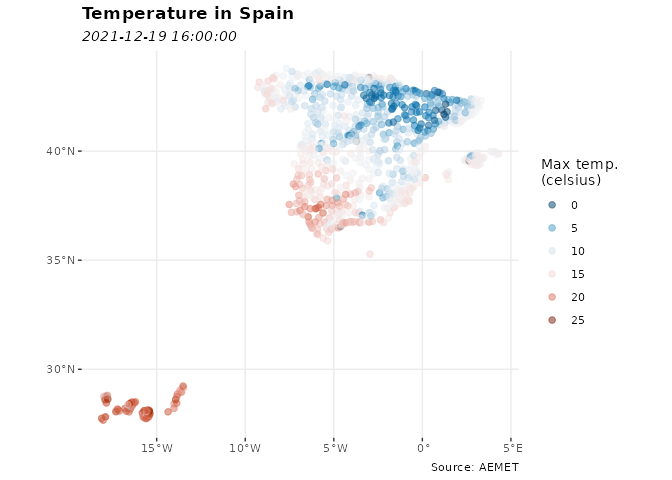
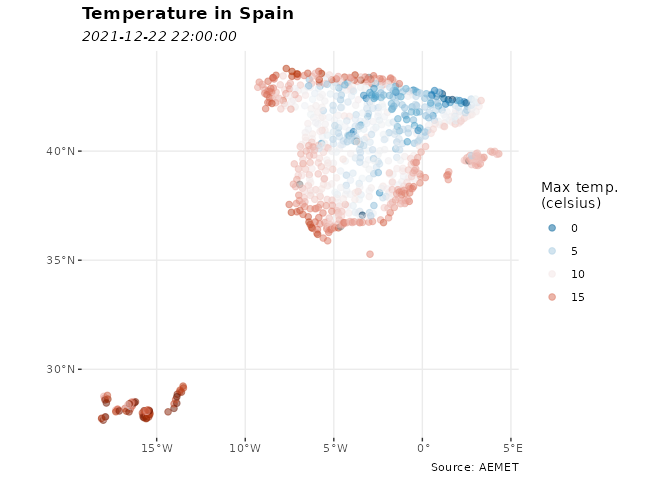
Update docs with pkgdev

diff --git a/README.md b/README.md
@@ -121,20 +121,20 @@ library(climaemet)
 # See a tibble in action
 
 aemet_last_obs("9434")
-#> # A tibble: 24 × 25
+#> # A tibble: 23 × 25
 #>    idema   lon fint                 prec   alt  vmax    vv    dv   lat  dmax
 #>    <chr> <dbl> <dttm>              <dbl> <dbl> <dbl> <dbl> <dbl> <dbl> <dbl>
-#>  1 9434  -1.00 2021-12-19 16:00:00     0   249   3.4   0.6    77  41.7   135
-#>  2 9434  -1.00 2021-12-19 17:00:00     0   249   2.7   0.6    78  41.7   110
-#>  3 9434  -1.00 2021-12-19 18:00:00     0   249   2.4   0.8    11  41.7    95
-#>  4 9434  -1.00 2021-12-19 19:00:00     0   249   1.8   0.1    96  41.7    53
-#>  5 9434  -1.00 2021-12-19 20:00:00     0   249   2.4   1      37  41.7    53
-#>  6 9434  -1.00 2021-12-19 21:00:00     0   249   2.5   1.2    40  41.7    38
-#>  7 9434  -1.00 2021-12-19 22:00:00     0   249   2.2   0.7   348  41.7    33
-#>  8 9434  -1.00 2021-12-19 23:00:00     0   249   2.1   1      78  41.7   118
-#>  9 9434  -1.00 2021-12-20 00:00:00     0   249   2.1   0.9   115  41.7   153
-#> 10 9434  -1.00 2021-12-20 01:00:00     0   249   1.7   1     209  41.7   340
-#> # … with 14 more rows, and 15 more variables: ubi <chr>, pres <dbl>, hr <dbl>,
+#>  1 9434  -1.00 2021-12-22 22:00:00     0   249   5     3.3   120  41.7   118
+#>  2 9434  -1.00 2021-12-22 23:00:00     0   249   5.3   3.1   111  41.7   108
+#>  3 9434  -1.00 2021-12-23 00:00:00     0   249   4.8   2.4   107  41.7   110
+#>  4 9434  -1.00 2021-12-23 01:00:00     0   249   4.1   2.5    99  41.7   125
+#>  5 9434  -1.00 2021-12-23 02:00:00     0   249   3.8   1.6    81  41.7   113
+#>  6 9434  -1.00 2021-12-23 03:00:00     0   249   3.1   1.3    82  41.7    85
+#>  7 9434  -1.00 2021-12-23 04:00:00     0   249   3.4   2      93  41.7   100
+#>  8 9434  -1.00 2021-12-23 05:00:00     0   249   4.5   1.7   123  41.7   110
+#>  9 9434  -1.00 2021-12-23 06:00:00     0   249   3.8   0.6    77  41.7   120
+#> 10 9434  -1.00 2021-12-23 07:00:00     0   249   2.7   0.6   179  41.7   135
+#> # … with 13 more rows, and 15 more variables: ubi <chr>, pres <dbl>, hr <dbl>,
 #> #   stdvv <dbl>, ts <dbl>, pres_nmar <dbl>, tamin <dbl>, ta <dbl>, tamax <dbl>,
 #> #   tpr <dbl>, stddv <dbl>, inso <dbl>, tss5cm <dbl>, pacutp <dbl>,
 #> #   tss20cm <dbl>
@@ -172,14 +172,14 @@ data_observation <- aemet_last_obs(station)
 knitr::kable(head(data_observation))
 ```
 
-| idema |        lon | fint                | prec | alt | vmax |  vv | dv |      lat | dmax | ubi                 |  pres | hr | stdvv |  ts | pres\_nmar | tamin |  ta | tamax | tpr | stddv | inso | tss5cm | pacutp | tss20cm |
-| :---- | ---------: | :------------------ | ---: | --: | ---: | --: | -: | -------: | ---: | :------------------ | ----: | -: | ----: | --: | ---------: | ----: | --: | ----: | --: | ----: | ---: | -----: | -----: | ------: |
-| 9434  | \-1.004167 | 2021-12-19 16:00:00 |    0 | 249 |  3.4 | 0.6 | 77 | 41.66056 |  135 | ZARAGOZA AEROPUERTO | 995.3 | 93 |   0.3 | 3.3 |     1026.7 |   2.9 | 2.9 |   3.2 | 1.9 |    31 |    0 |    6.0 |      0 |     6.6 |
-| 9434  | \-1.004167 | 2021-12-19 17:00:00 |    0 | 249 |  2.7 | 0.6 | 78 | 41.66056 |  110 | ZARAGOZA AEROPUERTO | 995.2 | 95 |   0.5 | 3.0 |     1026.6 |   2.8 | 2.8 |   3.0 | 2.1 |    66 |    0 |    5.8 |      0 |     6.6 |
-| 9434  | \-1.004167 | 2021-12-19 18:00:00 |    0 | 249 |  2.4 | 0.8 | 11 | 41.66056 |   95 | ZARAGOZA AEROPUERTO | 995.1 | 96 |   0.2 | 2.9 |     1026.5 |   2.6 | 2.6 |   2.8 | 2.1 |    32 |    0 |    5.7 |      0 |     6.7 |
-| 9434  | \-1.004167 | 2021-12-19 19:00:00 |    0 | 249 |  1.8 | 0.1 | 96 | 41.66056 |   53 | ZARAGOZA AEROPUERTO | 995.2 | 97 |   0.2 | 2.9 |     1026.6 |   2.6 | 2.6 |   2.6 | 2.1 |    82 |    0 |    5.6 |      0 |     6.7 |
-| 9434  | \-1.004167 | 2021-12-19 20:00:00 |    0 | 249 |  2.4 | 1.0 | 37 | 41.66056 |   53 | ZARAGOZA AEROPUERTO | 995.3 | 97 |   0.4 | 2.8 |     1026.7 |   2.6 | 2.6 |   2.7 | 2.1 |    27 |    0 |    5.5 |      0 |     6.6 |
-| 9434  | \-1.004167 | 2021-12-19 21:00:00 |    0 | 249 |  2.5 | 1.2 | 40 | 41.66056 |   38 | ZARAGOZA AEROPUERTO | 995.3 | 97 |   0.3 | 2.8 |     1026.7 |   2.5 | 2.5 |   2.6 | 2.1 |    26 |    0 |    5.4 |      0 |     6.6 |
+| idema |        lon | fint                | prec | alt | vmax |  vv |  dv |      lat | dmax | ubi                 |  pres | hr | stdvv |  ts | pres\_nmar | tamin |  ta | tamax | tpr | stddv | inso | tss5cm | pacutp | tss20cm |
+| :---- | ---------: | :------------------ | ---: | --: | ---: | --: | --: | -------: | ---: | :------------------ | ----: | -: | ----: | --: | ---------: | ----: | --: | ----: | --: | ----: | ---: | -----: | -----: | ------: |
+| 9434  | \-1.004167 | 2021-12-22 22:00:00 |    0 | 249 |  5.0 | 3.3 | 120 | 41.66056 |  118 | ZARAGOZA AEROPUERTO | 992.0 | 99 |   0.5 | 4.3 |     1023.1 |   3.9 | 4.2 |   4.2 | 4.1 |     8 |    0 |    5.8 |   0.00 |     6.7 |
+| 9434  | \-1.004167 | 2021-12-22 23:00:00 |    0 | 249 |  5.3 | 3.1 | 111 | 41.66056 |  108 | ZARAGOZA AEROPUERTO | 992.2 | 99 |   0.6 | 4.7 |     1023.3 |   4.2 | 4.6 |   4.6 | 4.5 |    10 |    0 |    5.8 |   0.00 |     6.7 |
+| 9434  | \-1.004167 | 2021-12-23 00:00:00 |    0 | 249 |  4.8 | 2.4 | 107 | 41.66056 |  110 | ZARAGOZA AEROPUERTO | 991.6 | 99 |   0.4 | 4.8 |     1022.6 |   4.6 | 4.8 |   4.8 | 4.6 |    10 |    0 |    5.8 |   0.00 |     6.7 |
+| 9434  | \-1.004167 | 2021-12-23 01:00:00 |    0 | 249 |  4.1 | 2.5 |  99 | 41.66056 |  125 | ZARAGOZA AEROPUERTO | 991.1 | 99 |   0.5 | 4.9 |     1022.1 |   4.8 | 4.9 |   4.9 | 4.8 |     9 |    0 |    5.8 |   0.00 |     6.7 |
+| 9434  | \-1.004167 | 2021-12-23 02:00:00 |    0 | 249 |  3.8 | 1.6 |  81 | 41.66056 |  113 | ZARAGOZA AEROPUERTO | 991.2 | 99 |   0.5 | 5.2 |     1022.2 |   4.9 | 5.2 |   5.2 | 5.1 |    16 |    0 |    5.9 |   0.01 |     6.7 |
+| 9434  | \-1.004167 | 2021-12-23 03:00:00 |    0 | 249 |  3.1 | 1.3 |  82 | 41.66056 |   85 | ZARAGOZA AEROPUERTO | 991.7 | 99 |   0.4 | 5.4 |     1022.7 |   5.2 | 5.4 |   5.4 | 5.3 |    24 |    0 |    5.9 |   0.00 |     6.7 |
 
 ``` r
 
